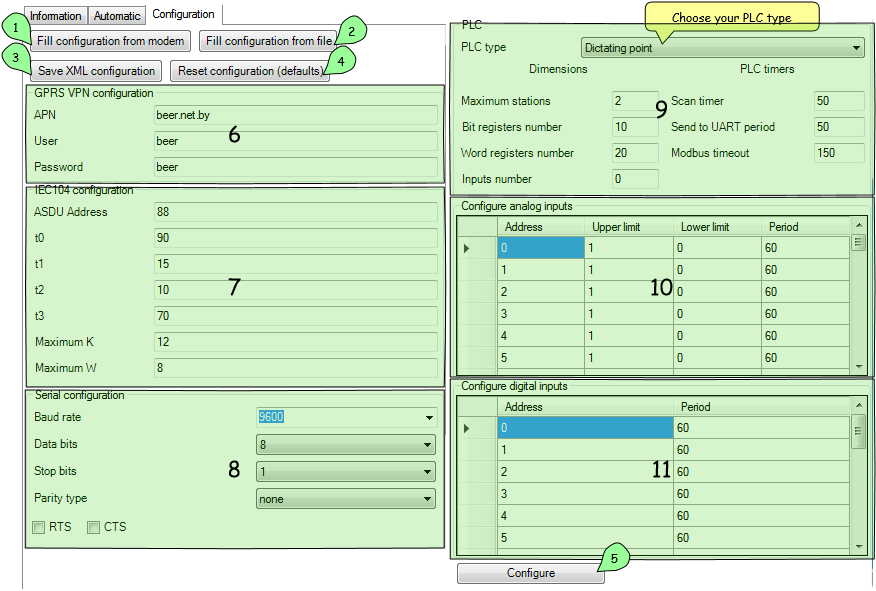
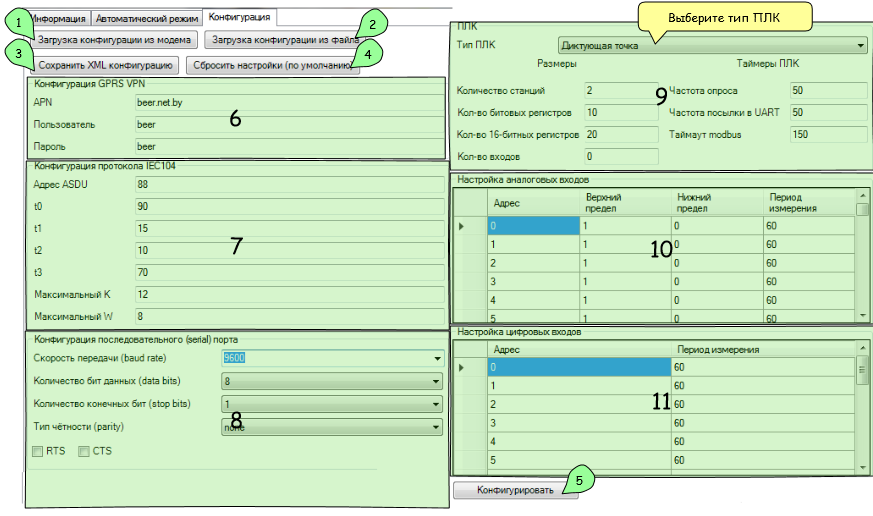
Added configuration localized images.

Changed region(s): [[0.0, 0.0, 1.0, 0.9922], [0.0, 0.4341, 0.0619, 0.4961]]

diff --git a/usage.rst b/usage.rst
@@ -123,7 +123,7 @@
 Конфигурирование приложения модема
 ----------------------------------
 
-Configuring application only works if you have our application inside your modem (which is obvious).
+Конфигурирование (настройка) приложения (прошивки) модема работает только если эта прошивка присутствует на модеме (что очевидно).
 
 .. image:: Screens/Configuration1.png
 
